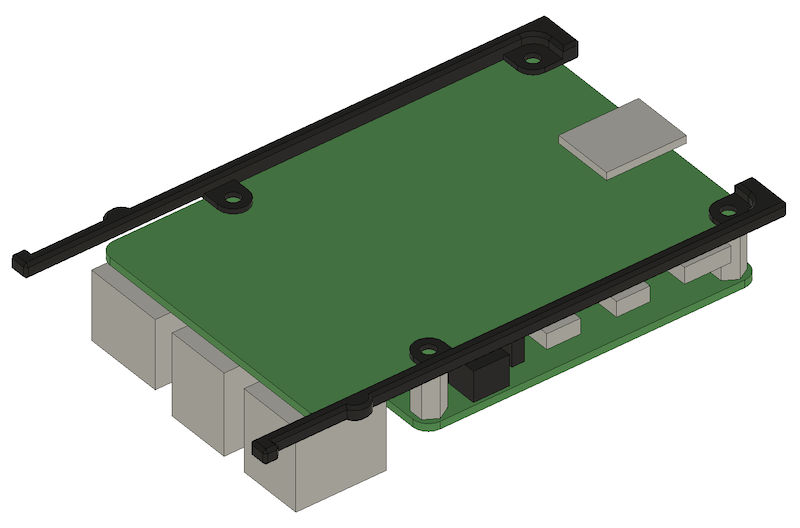
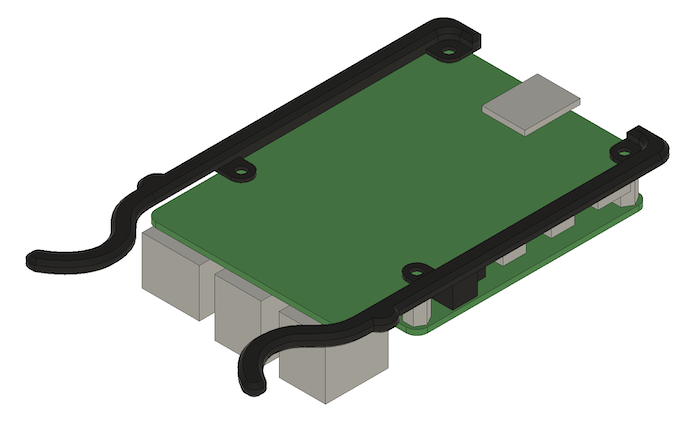
Updated instructions and images to match new case

Changed region(s): [[0.0, 0.0292, 0.99, 0.964], [0.51, 0.1753, 0.54, 0.2045], [0.48, 0.1461, 0.51, 0.1753]]

diff --git a/3dprint/README.md b/3dprint/README.md
@@ -4,8 +4,10 @@
 
 | Filename | Quantity | Suggested Material |
 |-|-|-|
-| LeftCaddy.stl | 1 for each RPi | PETG (for flexibility) |
-| RigthCaddy.stl | 1 for each RPi | PETG (for flexibility) |
+| Case.stl | 1 | PLA (for rigidity) |
+| LeftCaddy.stl | 4 (1 for each RPi) | PETG (for flexibility) |
+| RigthCaddy.stl | 4 (1 for each RPi) | PETG (for flexibility) |
+| BaseCaddyHousing.stl | 0, this is a test piece | N/A |
 
 ## Assembly
 
@@ -14,3 +16,17 @@ secure the left and right caddy component to the bottom side of the pi with the
 print surface touching the board.
 
 ![LeftCaddy.stl, RightCaddy.stl in proper position](img/CaddyAssembly.png)
+
+**Case.stl:** Start by attaching the panel mount ethernet extension to the back
+of the case as shown below.  After this, slide the POE switch in to place using
+the provided hooks and slide each RPi in to their given slot.  Once everything
+is in place you can connect all your ethernet cables and route as necessary to
+give it a clean look.
+
+![How to attach the Eth panel mount](img/EthPanelAssembly.png)
+
+![How to attach the Eth panel mount](img/EthPanelAssemblyTransparent.png)
+
+![POE switch installation](img/POEAssembly.png)
+
+![Complete assembly](img/CompleteAssembly.png)
